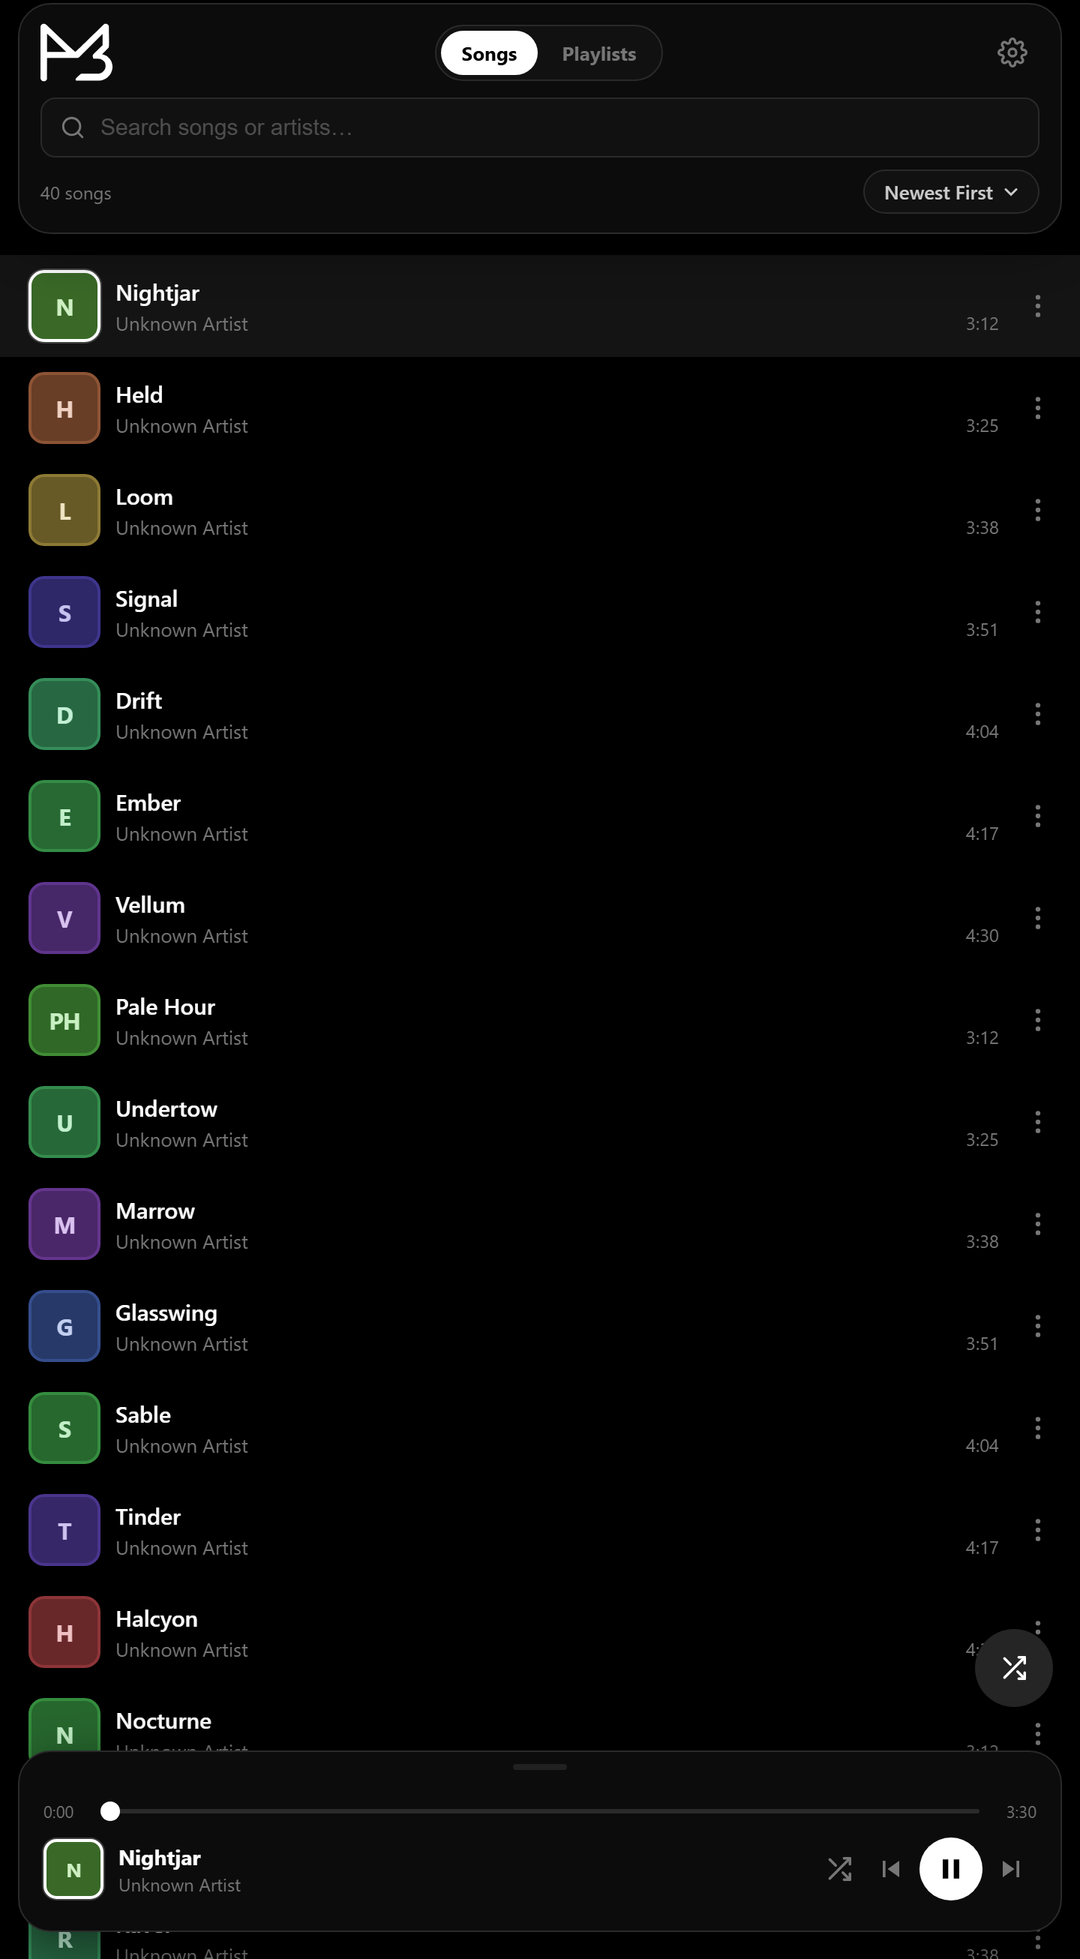
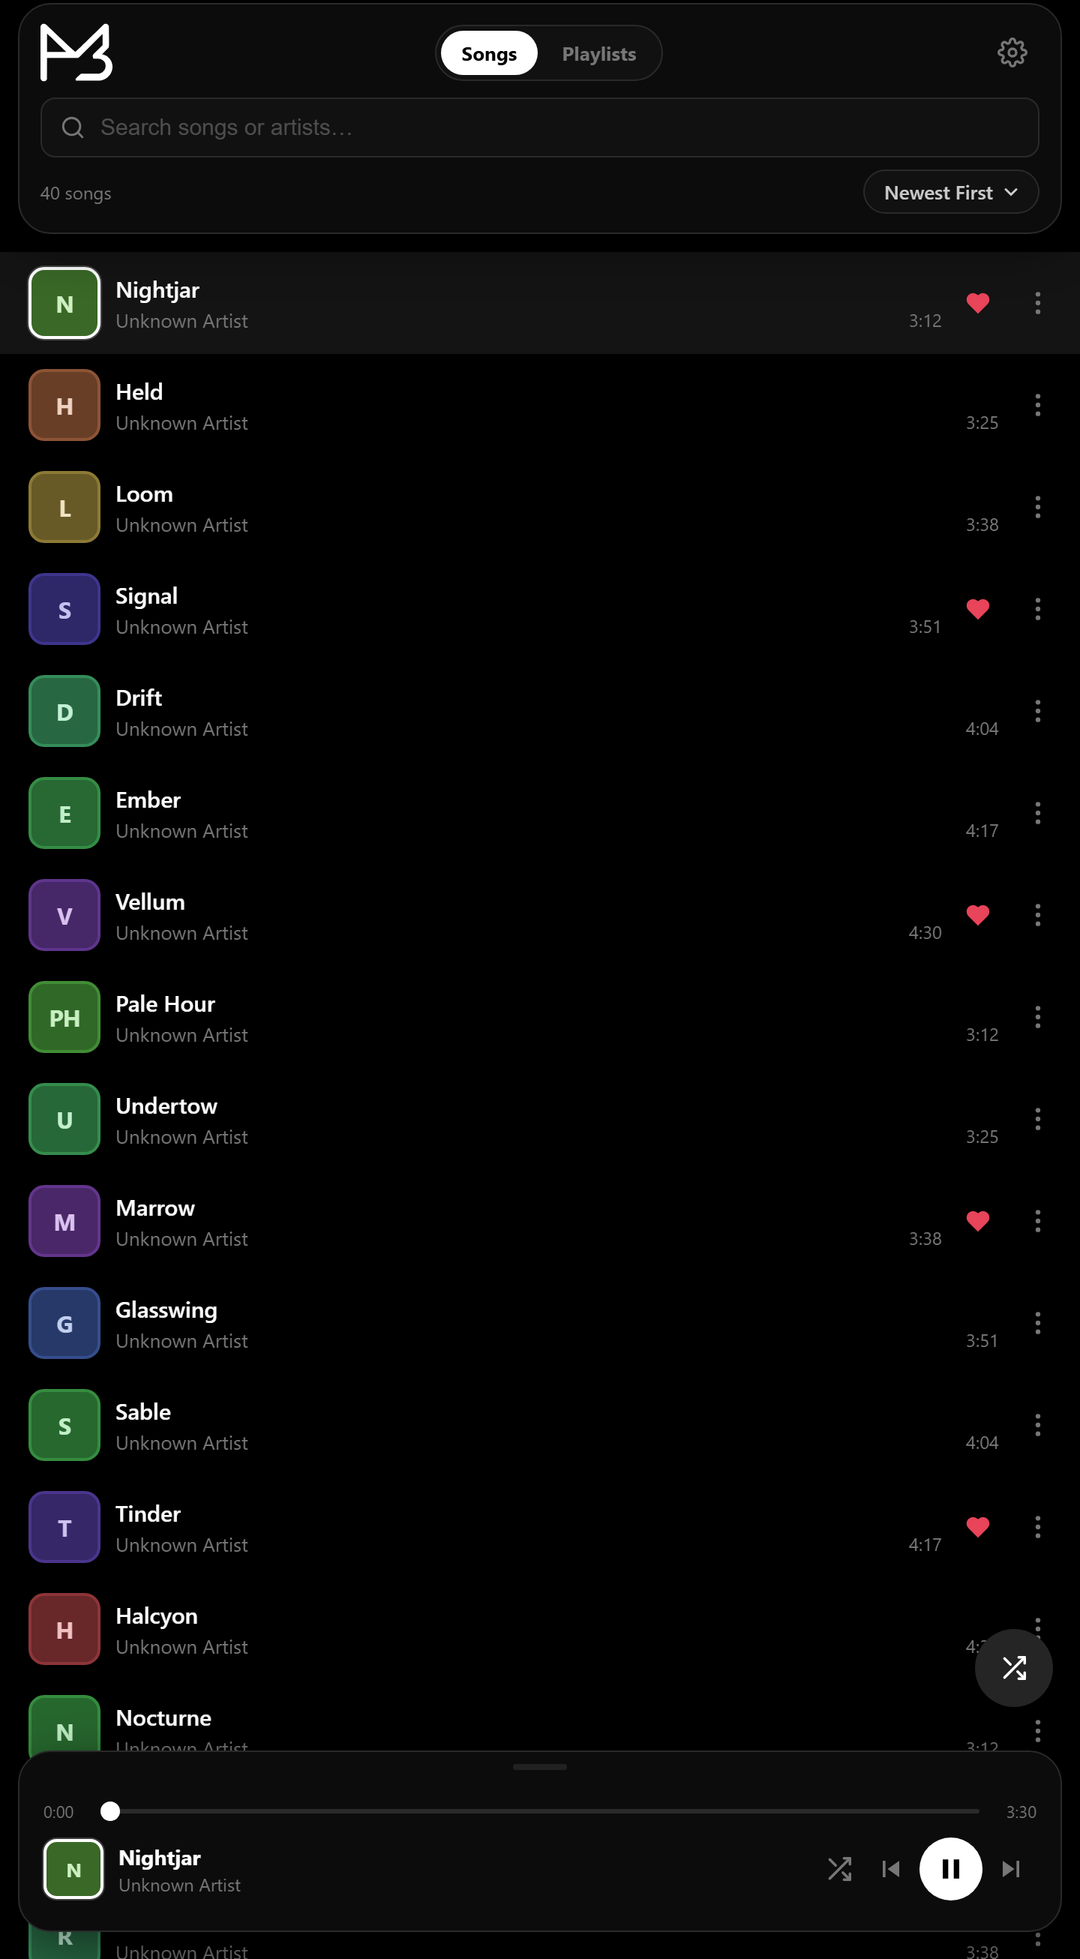
Website: show the app 1:1, and add the playlists screen beside it
The interface preview was shrunk: the screenshots are captured at 360 CSS px
wide but the phone's screen was 300px, so the whole app rendered at 0.83x and
every label came out smaller than it is on a real phone. The screen is now
exactly 360px, matching the capture, so the app inside is 1:1. Its height comes
from the capture's own ratio instead of a fixed pixel value, which also lets the
frame scale down evenly on a narrow screen rather than cropping the shot.

Adds the playlists screen next to the song list, so the section shows both
halves of the app. Either phone opens the demo.

Both shots are retaken against a fuller library and nine playlists, so neither
one trails off into empty black halfway down.

diff --git a/Website/index.html b/Website/index.html
@@ -15,18 +15,18 @@
 <meta property="og:title" content="MPTree, an offline music player">
 <meta property="og:description" content="MPTree plays the music already on your device. Nothing streams, nothing uploads.">
 <meta property="og:url" content="https://mp-tree.net/">
-<meta property="og:image" content="https://mp-tree.net/assets/img/og-image.png?v=18">
+<meta property="og:image" content="https://mp-tree.net/assets/img/og-image.png?v=19">
 <meta property="og:image:width" content="1200">
 <meta property="og:image:height" content="630">
 <meta name="twitter:card" content="summary_large_image">
-<meta name="twitter:image" content="https://mp-tree.net/assets/img/og-image.png?v=18">
+<meta name="twitter:image" content="https://mp-tree.net/assets/img/og-image.png?v=19">
 
 <link rel="icon" type="image/svg+xml" href="assets/icon/favicon.svg">
 <link rel="icon" type="image/png" sizes="32x32" href="assets/icon/favicon-32.png">
 <link rel="apple-touch-icon" href="assets/icon/apple-touch-icon-180.png">
 
-<link rel="stylesheet" href="assets/tokens.css?v=18">
-<link rel="stylesheet" href="assets/site.css?v=18">
+<link rel="stylesheet" href="assets/tokens.css?v=19">
+<link rel="stylesheet" href="assets/site.css?v=19">
 </head>
 <body>
 
@@ -56,7 +56,7 @@
 
     <div class="hero-disc" aria-hidden="true">
       <div class="disc">
-        <img src="assets/img/vinyl.webp?v=18" alt="" width="1000" height="1000">
+        <img src="assets/img/vinyl.webp?v=19" alt="" width="1000" height="1000">
       </div>
       <div class="disc-label">
         <img src="assets/img/mptree-mark-black.svg" alt="" width="26" height="26">
@@ -99,19 +99,30 @@
   <section id="look" class="section wrap">
     <h2>How it looks</h2>
     <p class="section-lede">
-      Tap the phone to try the app right here in your browser.
+      Tap a phone to try the app right here in your browser.
     </p>
 
     <div class="phone-row">
-      <button class="phone phone-btn" id="demo-open" aria-label="Open the interactive demo">
+      <button class="phone phone-btn" id="demo-open" data-demo-open aria-label="Open the interactive demo">
         <span class="phone-cta" aria-hidden="true">
           <svg width="15" height="15" viewBox="0 0 24 24" fill="currentColor"><path d="M8 5v14l11-7z"/></svg>
           Try it
         </span>
         <div class="phone-screen">
-          <img class="phone-shot" src="assets/img/screens/songs.png?v=18"
+          <img class="phone-shot" src="assets/img/screens/songs.png?v=19"
                alt="The MPTree song list, with a track playing in the bar at the bottom"
-               width="1080" height="1920" loading="lazy">
+               width="1080" height="1959" loading="lazy">
+        </div>
+      </button>
+      <button class="phone phone-btn" data-demo-open aria-label="Open the interactive demo">
+        <span class="phone-cta" aria-hidden="true">
+          <svg width="15" height="15" viewBox="0 0 24 24" fill="currentColor"><path d="M8 5v14l11-7z"/></svg>
+          Try it
+        </span>
+        <div class="phone-screen">
+          <img class="phone-shot" src="assets/img/screens/playlists.png?v=19"
+               alt="The MPTree playlists page, with the automatic playlists above your own"
+               width="1080" height="1959" loading="lazy">
         </div>
       </button>
     </div>
@@ -277,8 +288,8 @@
   </div>
 </footer>
 
-<script src="assets/versions.js?v=18"></script>
-<script src="assets/releases.js?v=18" defer></script>
-<script src="assets/site.js?v=18" defer></script>
+<script src="assets/versions.js?v=19"></script>
+<script src="assets/releases.js?v=19" defer></script>
+<script src="assets/site.js?v=19" defer></script>
 </body>
 </html>

diff --git a/Website/assets/site.css b/Website/assets/site.css
@@ -210,18 +210,28 @@ a { color: inherit; text-decoration: none; }
 .grid p { margin: 0; font-size: var(--mp-text-small); color: var(--mp-text-sub); line-height: 1.6; }
 
 /* ── Phone mockup, matched to the real app ────────────────────────────── */
-.phone-row { margin-top: 42px; display: flex; justify-content: center; }
+.phone-row {
+  margin-top: 42px;
+  display: flex; justify-content: center; align-items: flex-start;
+  gap: 26px; flex-wrap: wrap;
+}
+/* The screen is exactly as wide as the screenshots were captured (360 CSS px),
+   so the interface inside renders 1:1 rather than shrunk. 360 + 2*9 padding +
+   2*1 border = 380. */
 .phone {
-  width: 320px; flex-shrink: 0;
+  width: 380px; max-width: 100%;
+  box-sizing: border-box;
   border: 1px solid var(--mp-border);
-  border-radius: 30px;
+  border-radius: 34px;
   background: #000;
   padding: 9px;
 }
+/* Height comes from the capture's own ratio, so a narrow screen scales the
+   whole phone down evenly instead of cropping the shot. */
 .phone-screen {
   background: #000;
-  border-radius: 23px;
-  height: 580px;
+  border-radius: 26px;
+  aspect-ratio: 360 / 653;
   position: relative;
   overflow: hidden;
   display: flex; flex-direction: column;

diff --git a/Website/assets/site.js b/Website/assets/site.js
@@ -39,10 +39,10 @@
    * it, and the closed demo is not left running in the background.
    */
   var demoModal = document.getElementById("demo-modal");
-  var demoOpen  = document.getElementById("demo-open");
+  var demoOpeners = document.querySelectorAll("[data-demo-open]");
   var demoFrame = document.getElementById("demo-iframe");
 
-  if (demoModal && demoOpen && demoFrame) {
+  if (demoModal && demoOpeners.length && demoFrame) {
     var openDemo = function () {
       if (demoFrame.getAttribute("src") !== "demo/index.html") {
         demoFrame.setAttribute("src", "demo/index.html");
@@ -57,7 +57,10 @@
       demoFrame.setAttribute("src", "about:blank");
     };
 
-    demoOpen.addEventListener("click", openDemo);
+    // Every phone in the row opens the same demo.
+    for (var i = 0; i < demoOpeners.length; i++) {
+      demoOpeners[i].addEventListener("click", openDemo);
+    }
     demoModal.addEventListener("click", function (e) {
       if (e.target.hasAttribute && e.target.hasAttribute("data-demo-close")) closeDemo();
       else if (e.target.closest && e.target.closest("[data-demo-close]")) closeDemo();

diff --git a/Website/download.html b/Website/download.html
@@ -10,16 +10,16 @@
 <meta property="og:type" content="website">
 <meta property="og:title" content="Download MPTree">
 <meta property="og:description" content="Downloading MPTree, with a short guide to installing it on Android.">
-<meta property="og:image" content="https://mp-tree.net/assets/img/og-image.png?v=18">
+<meta property="og:image" content="https://mp-tree.net/assets/img/og-image.png?v=19">
 <meta name="twitter:card" content="summary_large_image">
-<meta name="twitter:image" content="https://mp-tree.net/assets/img/og-image.png?v=18">
+<meta name="twitter:image" content="https://mp-tree.net/assets/img/og-image.png?v=19">
 
 <link rel="icon" type="image/svg+xml" href="assets/icon/favicon.svg">
 <link rel="icon" type="image/png" sizes="32x32" href="assets/icon/favicon-32.png">
 <link rel="apple-touch-icon" href="assets/icon/apple-touch-icon-180.png">
 
-<link rel="stylesheet" href="assets/tokens.css?v=18">
-<link rel="stylesheet" href="assets/site.css?v=18">
+<link rel="stylesheet" href="assets/tokens.css?v=19">
+<link rel="stylesheet" href="assets/site.css?v=19">
 </head>
 <body>
 

diff --git a/Website/versions.html b/Website/versions.html
@@ -12,8 +12,8 @@
 <link rel="icon" type="image/png" sizes="32x32" href="assets/icon/favicon-32.png">
 <link rel="apple-touch-icon" href="assets/icon/apple-touch-icon-180.png">
 
-<link rel="stylesheet" href="assets/tokens.css?v=18">
-<link rel="stylesheet" href="assets/site.css?v=18">
+<link rel="stylesheet" href="assets/tokens.css?v=19">
+<link rel="stylesheet" href="assets/site.css?v=19">
 </head>
 <body>
 
@@ -95,7 +95,7 @@
   </div>
 </footer>
 
-<script src="assets/versions.js?v=18"></script>
-<script src="assets/releases.js?v=18" defer></script>
+<script src="assets/versions.js?v=19"></script>
+<script src="assets/releases.js?v=19" defer></script>
 </body>
 </html>

diff --git a/Website/privacy.html b/Website/privacy.html
@@ -12,8 +12,8 @@
 <link rel="icon" type="image/png" sizes="32x32" href="assets/icon/favicon-32.png">
 <link rel="apple-touch-icon" href="assets/icon/apple-touch-icon-180.png">
 
-<link rel="stylesheet" href="assets/tokens.css?v=18">
-<link rel="stylesheet" href="assets/site.css?v=18">
+<link rel="stylesheet" href="assets/tokens.css?v=19">
+<link rel="stylesheet" href="assets/site.css?v=19">
 </head>
 <body>
 
